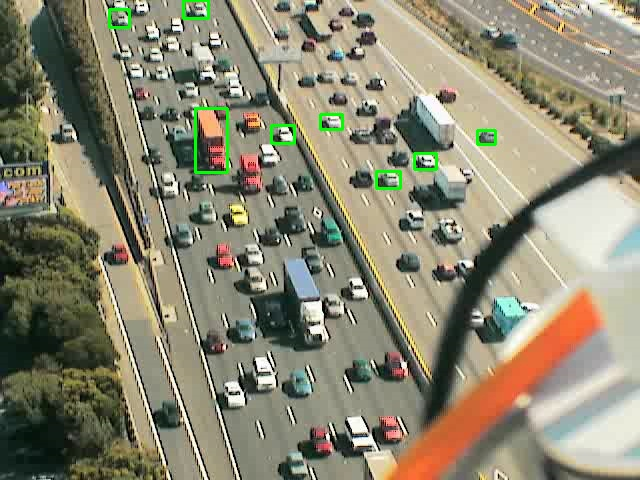
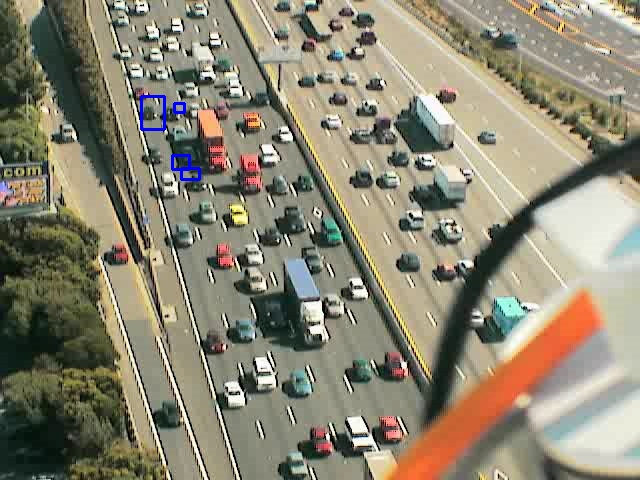
fix detector, run all segment

diff --git a/src/NN_funcs.py b/src/NN_funcs.py
@@ -1,6 +1,7 @@
 import numpy as np
 import torch
 import cv2
+import csv
 from PIL import Image
 import matplotlib.pyplot as plt
 import torchvision.transforms.functional as F
@@ -9,49 +10,56 @@ from ultralytics import YOLO
 from segment_anything import SamPredictor, sam_model_registry, SamAutomaticMaskGenerator
 from data_funcs import *
 
-dir_level = '../../..'
+dir_level = "../../.."
 model_weight_path = "%s/models/" % dir_level
+# results_dir = "/scratch/gilbreth/apiasecz/results/NGSIM_traffic_data_results/segmentation_masks"
+results_dir = '.'
 
+# Detector class
 class VehicleDetectorNN():
     def __init__(self, model_path='../../../models/yolov8x.pt', device='cuda' if torch.cuda.is_available() else 'cpu'):
         self.device = device
         self.model = YOLO(model_path)
-        self.vehicle_classes = ['car', 'truck', 'bus']
-        self.input_size = (640, 640)  # Standard input size for YOLOv8
-
+        self.vehicle_classes = [2, 5, 7]  # Indices for car, truck, bus in COCO dataset
+        self.input_size = (1280, 1280)  # Increased input size for better small object detection
+        self.conf_threshold = 0.25
+        self.iou_threshold = 0.40
+        self.min_area = 15
+        
     def preprocess_image(self, frame):
         # Convert to RGB (YOLO expects RGB input)
         frame_rgb = cv2.cvtColor(frame, cv2.COLOR_BGR2RGB)
 
         # Resize the image
-        frame_resized = cv2.resize(frame_rgb, self.input_size, interpolation=cv2.INTER_LINEAR)
+        frame_resized = cv2.resize(frame_rgb, self.input_size, interpolation=cv2.INTER_CUBIC)
 
         # Apply Gaussian blur to reduce noise
         frame_blurred = cv2.GaussianBlur(frame_resized, (5, 5), 0)
 
-
-
-        return frame_blurred
+        return frame_rgb
 
     def detect_vehicles(self, frame):
+        original_h, original_w = frame.shape[:2]
         preprocessed_frame = self.preprocess_image(frame)
-        results = self.model(preprocessed_frame)
+        
+        results = self.model(preprocessed_frame, conf=self.conf_threshold, iou=self.iou_threshold, classes=self.vehicle_classes)
+        
         vehicles = []
-        for r in results:
-            boxes = r.boxes
+        if results and len(results) > 0:
+            boxes = results[0].boxes
             for box in boxes:
+                x1, y1, x2, y2 = box.xyxy[0].cpu().numpy().astype(int)
+                conf = float(box.conf[0])
                 cls = int(box.cls[0])
-                if self.model.names[cls] in self.vehicle_classes:
-                    x1, y1, x2, y2 = box.xyxy[0].cpu().numpy().astype(int)
-                    conf = float(box.conf[0])
-                    if conf > 0.25:  # Confidence threshold
-                        # Scale bounding box coordinates back to original image size
-                        h, w = frame.shape[:2]
-                        x1 = int(x1 * w / self.input_size[0])
-                        y1 = int(y1 * h / self.input_size[1])
-                        x2 = int(x2 * w / self.input_size[0])
-                        y2 = int(y2 * h / self.input_size[1])
-                        vehicles.append([x1, y1, x2, y2])
+                
+                # Scale bounding box coordinates back to original image size
+                x1, x2 = [int(x * original_w / self.input_size[0]) for x in [x1, x2]]
+                y1, y2 = [int(y * original_h / self.input_size[1]) for y in [y1, y2]]
+                
+                # Filter out small detections
+                if (x2 - x1) * (y2 - y1) >= self.min_area:
+                    vehicles.append([x1, y1, x2, y2, cls, conf])
+        
         return vehicles
 
     def count_vehicles(self, frame):
@@ -60,8 +68,22 @@ class VehicleDetectorNN():
     def draw_vehicles(self, frame):
         vehicles = self.detect_vehicles(frame)
         for vehicle in vehicles:
-            cv2.rectangle(frame, (vehicle[0], vehicle[1]), (vehicle[2], vehicle[3]), (0, 255, 0), 2)
+            x1, y1, x2, y2, cls, conf = vehicle
+            color = (0, 255, 0) if cls == 2 else (0, 0, 255) if cls == 5 else (255, 0, 0)
+            cv2.rectangle(frame, (x1, y1), (x2, y2), color, 2)
+            label = f''
+            cv2.putText(frame, label, (x1, y1 - 10), cv2.FONT_HERSHEY_SIMPLEX, 0.9, color, 2)
         return frame
+
+    def process_image(self, image_path):
+        frame = cv2.imread(image_path)
+        if frame is None:
+            raise ValueError(f"Unable to read image at {image_path}")
+        
+        frame_with_vehicles = self.draw_vehicles(frame)
+        vehicle_count = self.count_vehicles(frame)
+        
+        return frame_with_vehicles, vehicle_count
 
     def process_video(self, video_path, output_path):
         cap = cv2.VideoCapture(video_path)
@@ -72,6 +94,7 @@ class VehicleDetectorNN():
         fourcc = cv2.VideoWriter_fourcc(*'mp4v')
         out = cv2.VideoWriter(output_path, fourcc, fps, (width, height))
         
+        frame_count = 0
         while cap.isOpened():
             ret, frame = cap.read()
             if not ret:
@@ -79,10 +102,16 @@ class VehicleDetectorNN():
             
             frame_with_vehicles = self.draw_vehicles(frame)
             out.write(frame_with_vehicles)
+            
+            frame_count += 1
+            if frame_count % 30 == 0:
+                print(f"Processed {frame_count} frames")
         
         cap.release()
         out.release()
-                
+        print(f"Video processing completed. Total frames: {frame_count}")
+  
+# Segmenter class              
 class SAMSegmenter:
     def __init__(self, model_type = "vit_l", device = torch.device("cuda" if torch.cuda.is_available() else "cpu")):
         self.device = device
@@ -120,7 +149,7 @@ class SAMSegmenter:
         
         return colored_seg
     
-# For testing the segmenter
+# Test the segmenter
 def test_segmentation(image_path, model_type = "vit_l"):
     segmenter = SAMSegmenter(model_type = model_type)
     image = cv2.imread(image_path)
@@ -135,5 +164,83 @@ def test_segmentation(image_path, model_type = "vit_l"):
 
     print(f"\nNumber of segments found: {len(masks)}")
 
+# Get masks for ground truth and the test
+def process_frame_both_models(frame, vit_l_segmenter, vit_b_segmenter):
+    vit_l_masks = vit_l_segmenter.segment(frame)
+    vit_b_masks = vit_b_segmenter.segment(frame)
+    return vit_l_masks, vit_b_masks
+
+# Calculate loss
+def calculate_iou(mask1, mask2):
+    intersection = np.logical_and(mask1, mask2)
+    union = np.logical_or(mask1, mask2)
+    return np.sum(intersection) / np.sum(union)
+
+# Get the loss
+def segmentation_loss_calculation(video_path, seed = 0, start_frame = None, end_frame = None, results_dir = './results'):
+    set_seed(seed)
+    device = torch.device("cuda" if torch.cuda.is_available() else "cpu")
+
+    # Init the 2 model
+    vit_l_segmenter = SAMSegmenter(model_type = "vit_l", device = device)
+    vit_b_segmenter = SAMSegmenter(model_type = "vit_b", device = device)
+
+    video_name = os.path.splitext(os.path.basename(video_path))[0]
+    output_file = os.path.join(results_dir, f"{video_name}_segmentation_IoU_loss_result_seed_{seed}.csv")
+
+    os.makedirs(results_dir, exist_ok = True)
+
+    frame_generator = get_frames(video_path)
+    
+    with open(output_file, 'w', newline = '') as csvfile:
+        csv_writer = csv.writer(csvfile)
+        csv_writer.writerow(['Frame', 'IoU_Loss'])
+
+        for frame_num, frame in enumerate(frame_generator):
+            if start_frame is not None and frame_num < start_frame:
+                continue
+            if end_frame is not None and frame_num >= end_frame:
+                break
+
+            if frame_num == 0:
+                frame_height, frame_width = frame.shape[:2]
+                print(f"Frame size: {frame_width}x{frame_height}")
+
+            # Get masks
+            vit_l_masks, vit_b_masks = process_frame_both_models(frame, vit_l_segmenter, vit_b_segmenter)
+            
+            # Optional get the frames with segmentation for checking
+            if frame_num % 10 == 0:
+                colored_vit_l_masks = vit_l_segmenter.colorize_segmentation(vit_l_masks)
+                colored_vit_b_masks = vit_b_segmenter.colorize_segmentation(vit_b_masks)
+                overlay_l = cv2.addWeighted(frame, 0.3, colored_vit_l_masks, 0.7, 0)
+                overlay_b = cv2.addWeighted(frame, 0.3, colored_vit_b_masks, 0.7, 0)
+                cv2.imwrite(f'../data/frame_{frame_num}_segmentation_result_vit_l.jpg', cv2.cvtColor(overlay_l, cv2.COLOR_RGB2BGR))
+                cv2.imwrite(f'../data/frame_{frame_num}_segmentation_result_vit_b.jpg', cv2.cvtColor(overlay_b, cv2.COLOR_RGB2BGR))
+
+            # Calculate loss
+            vit_l_combined = np.zeros((frame_height, frame_width), dtype=bool)
+            vit_b_combined = np.zeros((frame_height, frame_width), dtype=bool)
+
+            for mask in vit_l_masks:
+                vit_l_combined |= mask['segmentation']
+            for mask in vit_b_masks:
+                vit_b_combined |= mask['segmentation']
+
+            iou_loss = calculate_iou(vit_l_combined, vit_b_combined)
+
+            csv_writer.writerow([frame_num, iou_loss])
+
+            if frame_num % 10 == 0:
+                print(f"Processed frame {frame_num}")
+
+            # Clear masks from memory
+            del vit_l_masks, vit_b_masks, vit_l_combined, vit_b_combined
+
+    print(f"IoU loss results saved to {output_file}")
+
+
 if __name__ == "__main__":
-    test_segmentation("../data/first_frame.jpg", model_type = "vit_l")
+    # test_segmentation('../data/first_frame.jpg', 'vit_b')
+    video_path = '/scratch/gilbreth/apiasecz/data/NGSIM_traffic_data/nb-camera1-0400pm-0415pm.avi'
+    segmentation_loss_calculation(video_path, seed = 0, start_frame = None, end_frame = 11, results_dir = results_dir)

diff --git a/src/data_funcs.py b/src/data_funcs.py
@@ -1,5 +1,9 @@
 import cv2
 import os 
+import random
+import numpy as np
+import torch
+import json
 from collections import deque
 
 # Return a generator object with video frames
@@ -66,6 +70,17 @@ class DataHistory:
             return None, None, None
         return list(self.data), list(self.segmentations), list(self.vehicle_counts)
 
+def set_seed(seed):
+    random.seed(seed)
+    np.random.seed(seed)
+    torch.manual_seed(seed)
+    if torch.cuda.is_available():
+        torch.cuda.manual_seed(seed)
+        torch.cuda.manual_seed_all(seed)
+    torch.backends.cudnn.deterministic = True
+    torch.backends.cudnn.benchmark = False
+
+
 # Test data processing code
 if __name__ == "__main__":
     # Test Data history class
@@ -98,7 +113,7 @@ if __name__ == "__main__":
 
     # Test frame retreival
     if video_files:
-        frames = get_frames(video_files[3])
+        frames = get_frames(video_files[0])
         for i, frame in enumerate(frames):
             if i == 0:  
                 save_img(frame, "../data/first_frame.jpg")
